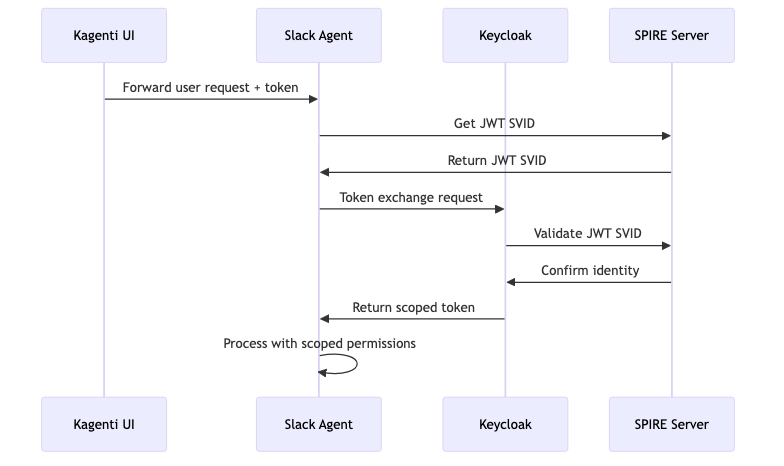
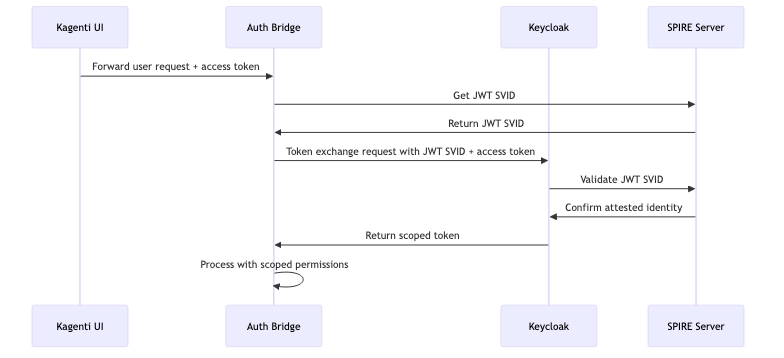
More identity updates

diff --git a/docs/demo-identity.md b/docs/demo-identity.md
@@ -197,8 +197,11 @@ admin:
 ### Keycloak Admin Access
 
 ```bash
-# Access Keycloak Admin Console
+# Access Keycloak Admin Console 
+# on kind:
 open http://keycloak.localtest.me:8080/admin/master/console/
+# on OpenShift:
+open "https://$(kubectl get route mcp-proxy -n kagenti-system -o jsonpath='{.status.ingress[0].host}')"
 
 # Get admin credentials from Kubernetes (if different)
 kubectl get secret keycloak-initial-admin -n keycloak -o go-template=\
@@ -325,26 +328,26 @@ grant_type=urn:ietf:params:oauth:grant-type:token-exchange
 }
 ```
 
-#### Stage 3: Tool Access with Delegated Token
+#### Stage 3: Internal Tool Access with Delegated Token
 
-![Tool Access with Delegated Token Flow](./diagrams/images/png/03-tool-access-delegated-token-flow.png)
+![Internal Tool Access with Delegated Token Flow](./diagrams/images/png/03-tool-access-delegated-token-flow.png)
 
-*Figure 3: Tool Access Flow - Shows how agents call tools using delegated tokens with proper permission validation*
+*Figure 3: Internal Tool Access Flow - Shows how agents call internal tools using delegated tokens with proper permission validation*
 
 <details>
 <summary>View Mermaid Source Code</summary>
 
 ```mermaid
 sequenceDiagram
-    participant Agent as Slack Agent
-    participant Tool as Slack Tool
-    participant API as Slack API
+    participant Agent as Auth Bridge
+    participant Tool as Internal Tool
+    participant API as Internal API
     participant KC as Keycloak
     
     Agent->>Tool: Call tool with delegated token
     Tool->>KC: Validate token
     KC->>Tool: Confirm token + scopes
-    Tool->>API: Make Slack API call
+    Tool->>API: Make Internal API call
     API->>Tool: Return data
     Tool->>Agent: Return processed result
 ```
@@ -481,6 +484,62 @@ def validate_request(request):
         return PermissionLevel.PARTIAL
     else:
         raise AuthorizationError("Insufficient permissions")
+```
+
+#### Stage 4: External API Access with Delegated Token and Vault
+
+![External API Access with Delegated Token and Vault Flow](./diagrams/images/png/05-tool-with-external-api-flow.png)
+
+*Figure 5: External API Access with Vault Flow - Shows how agents call internal tools using delegated tokens with proper permission validation and the Vault exchanges this token for external API key for accessing external APIs*
+
+<details>
+<summary>View Mermaid Source Code</summary>
+
+```mermaid
+sequenceDiagram
+    participant Agent as Agent
+    participant Tool as Tool
+    participant KC as Keycloak
+    participant VA as Vault
+    participant API as External API
+
+    Agent->>Tool: Call tool with delegated token
+    Tool->>KC: Validate token
+    KC->>Tool: Confirm token + scopes
+    Tool->>VA: Request External API key (send token)
+    VA->>KC: Request OIDC discovery
+    KC->>VA: Return public keys to validate token
+    VA->>VA: Verify the Vault policies and claims
+    VA->>Tool: Return External API key
+    Tool->>API: Request data with External API key
+    API->>Tool: Return data
+```
+</details>
+
+### JWT Token Structure
+
+**User Token:**
+```json
+{
+  "sub": "user-123",
+  "preferred_username": "slack-full-access-user",
+  "aud": "kagenti-ui",
+  "exp": 1735689600,
+  "roles": ["slack-full-access", "slack-partial-access"]
+}
+```
+
+**Agent-Scoped Token (after exchange):**
+```json
+{
+  "sub": "user-123",
+  "act": {
+    "sub": "spiffe://localtest.me/ns/team/sa/slack-researcher"
+  },
+  "aud": "slack-tool",
+  "exp": 1735686900,
+  "scope": "slack-full-access"
+}
 ```
 
 ---

diff --git a/docs/diagrams/README.md b/docs/diagrams/README.md
@@ -64,12 +64,14 @@ mmdc -i 01-user-authentication-flow.mmd -o 01-user-authentication-flow.png
 mmdc -i 02-agent-token-exchange-flow.mmd -o 02-agent-token-exchange-flow.png  
 mmdc -i 03-tool-access-delegated-token-flow.mmd -o 03-tool-access-delegated-token-flow.png
 mmdc -i 04-mcp-gateway-authentication-flow.mmd -o 04-mcp-gateway-authentication-flow.png
+mmdc -i 05-tool-with-external-api-flow.mmd -o 05-tool-with-external-api-flow.png
 
 # Generate all diagrams as SVG (vector format)
 mmdc -i 01-user-authentication-flow.mmd -o 01-user-authentication-flow.svg
 mmdc -i 02-agent-token-exchange-flow.mmd -o 02-agent-token-exchange-flow.svg
 mmdc -i 03-tool-access-delegated-token-flow.mmd -o 03-tool-access-delegated-token-flow.svg
 mmdc -i 04-mcp-gateway-authentication-flow.mmd -o 04-mcp-gateway-authentication-flow.svg
+mmdc -i 05-tool-with-external-api-flow.mmd -o 05-tool-with-external-api-flow.svg
 ```
 
 ### Option 3: Batch Script
